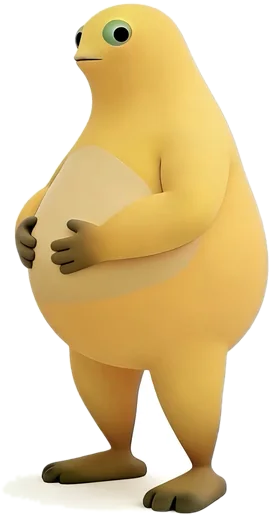
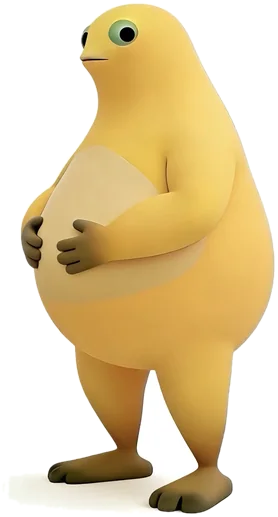
角色改为三段表演：走入/招手/待命，剪辑点藏进重心压缩；重做遮罩去掉脚下灰底

diff --git a/index.html b/index.html
@@ -93,10 +93,13 @@
   /* ── 舞台：lane 裁切走路，印章在 lane 外不被裁 ── */
   .stage{position:relative;height:196px;margin:6px auto 0}
   .lane{position:absolute;inset:0;overflow:hidden}
-  .walker{position:absolute;bottom:0;left:0;width:100%;height:100%;will-change:transform}
-  .walker img{position:absolute;bottom:0;left:0;height:186px;width:auto;opacity:0;
-    will-change:transform,opacity;transform-origin:50% 100%}
-  .shadow{position:absolute;bottom:2px;left:0;width:118px;height:13px;border-radius:50%;
+  /* 三帧共用同一中心线：换帧时身体不会横向跳位，剪辑点才藏得住 */
+  .walker{position:absolute;bottom:0;left:0;width:100%;height:100%;
+    transform-origin:50% 100%;will-change:transform}
+  .walker img{position:absolute;bottom:0;left:50%;height:186px;width:auto;opacity:0;
+    transform:translateX(-50%);transform-origin:50% 100%;will-change:transform,opacity}
+  .shadow{position:absolute;bottom:2px;left:50%;width:118px;height:13px;margin-left:-59px;
+    border-radius:50%;
     background:radial-gradient(50% 50% at 50% 50%, rgba(22,39,63,.26), transparent 70%);
     opacity:0;will-change:transform,opacity}
 
@@ -196,7 +199,7 @@
 
   <div class="meter" id="meter">
     <div class="bar"><div class="fill" id="fill"></div></div>
-    <div class="count"><span id="phase">正在入 学</span><span id="secs">5.6s</span></div>
+    <div class="count"><span id="phase">正在入 学</span><span id="secs">5.9s</span></div>
   </div>
 
   <div class="actions" id="actions">
@@ -226,8 +229,10 @@
   const K = {
     paper:[0, .80], cam:[0, 1.35], ring:[.42, 1.30], badge:[.86, 1.42],
     title:1.06, titleGap:.052, titleDur:.62, dept:1.52, rule:1.58, sheen:1.72,
-    ui:1.90, walk:2.02, walkEnd:3.32, stamp:3.36, settle:3.86, countEnd:5.16,
-    bow:5.16, end:5.60
+    ui:1.90,
+    /* 角色三段表演：走入 → 招手 → 待命 */
+    walk:[2.02, 2.74], cut1:2.80, wave:[2.86, 3.52], cut2:3.58,
+    idle:3.64, stamp:3.86, settle:4.36, countEnd:5.44, bow:5.44, end:5.86
   };
 
   const q = s => document.getElementById(s);
@@ -266,27 +271,55 @@
   });
 
   /* 布局量缓存，绝不在每帧读（offsetWidth 会触发强制同步回流） */
-  let SW=0, SHW=118, FW=frames.map(()=>150);
-  function measure(){
-    SW = walker.parentElement.clientWidth || 320;
-    SHW = shadow.offsetWidth || 118;
-    FW = frames.map(f => f.offsetWidth || 150);
-  }
+  let SW = 0;
+  function measure(){ SW = walker.parentElement.clientWidth || 320; }
   addEventListener("resize", measure);
   addEventListener("load", measure);
   measure();
 
-  const frameWeights = t => {
-    if (t < K.walk) return [1,0,0];
-    if (t > K.bow) return [0,0,1];
-    const c = seg(t, K.walk, K.walkEnd) * 3;
-    const i = Math.min(2, Math.floor(c));
-    const w = [0,0,0];
-    if (i === 2){ w[2] = 1; return w; }                 // 末帧无后继，不做淡化
-    const blend = Math.sin(clamp(c-i)*Math.PI)*.45;
-    w[i] = 1-blend; w[i+1] = blend;
-    return w;
-  };
+  /* 衰减正弦：τ=0 时为 0，先冲出去再收敛回来 —— 保证与上一段无缝衔接 */
+  const damped = (τ, f, z) => Math.exp(-z*τ) * Math.sin(f*τ);
+  /* 短脉冲：用于「压缩」帧，把换图藏进重心下沉里 */
+  const pulse = (t, c, w) => { const d = Math.abs(t-c)/w; return d>=1 ? 0 : (1-d)*(1-d); };
+
+  /* 角色三段表演：走入 → 招手 → 待命。每段只允许一种运动，不叠加 */
+  function actor(t){
+    const xEnd = -SW*.20, xStart = -(SW*.5 + 70);
+    let idx = 0, x = xStart, rot = 0, sy = 1, sx = 1;
+
+    if (t < K.walk[0]){
+      x = xStart;
+    } else if (t < K.cut1){
+      idx = 0;
+      const e = inOut(seg(t, ...K.walk));            // 慢起步：easeOut 会让角色像被弹射出来
+      x = xStart + (xEnd - xStart) * e;
+      rot = -(1 - e) * 3.4 * M;                      // 行进中前倾，停步才立正
+    } else if (t < K.wave[0]){
+      idx = 0;
+      const τ = t - K.walk[1];
+      x = xEnd + damped(τ, 19, 11) * 26 * M;           // 急停过冲回弹
+      const c = pulse(t, K.cut1, .11);
+      sy = 1 - c*.055*M; sx = 1 + c*.050*M;          // 压到最低点时换帧
+    } else if (t < K.cut2){
+      idx = 1;
+      x = xEnd;
+      rot = damped(t - K.wave[0], 7.6, 2.2) * 4.6 * M; // 以脚为轴的两下招呼
+      const c = pulse(t, K.cut2, .11);
+      sy = 1 - c*.050*M; sx = 1 + c*.045*M;
+    } else {
+      idx = 2;
+      x = xEnd;
+      const τ = t - K.idle;
+      sy = 1 + Math.sin(2*Math.PI*τ/2.6)*.013;       // 待机呼吸，消掉「站着不动」的死感
+      sx = 1 - Math.sin(2*Math.PI*τ/2.6)*.006;
+      sy -= pulse(t, K.stamp + .07, .13) * .030 * M; // 章落下时他跟着沉一下，像在看着
+      if (t >= K.bow){
+        const b = seg(t, K.bow, K.bow + .30);
+        rot = Math.sin(b*Math.PI) * 7 * M;           // 鞠躬：去而不返地收在 0
+      }
+    }
+    return { idx, x: reduce ? xEnd : x, rot, sy, sx };
+  }
 
   function burst(){
     if (!M) return;
@@ -359,24 +392,20 @@
     actions.style.opacity = up; actions.style.transform = `translateY(${(1-up)*10*M}px)`;
     q("foot").style.opacity = up * .9;
 
-    /* ⑦ 奶娃走入：起点必须在画外，否则入场前就穿帮露出手臂 */
-    const wp = inOut(seg(t, K.walk, K.walkEnd));
-    const xEnd = SW * .18, xStart = -(FW[0] + 26);
-    const x = reduce ? xEnd : xStart + (xEnd - xStart) * wp;
-    const cyc = (t - K.walk) * 1.15;
-    const hop = M ? Math.abs(Math.sin(cyc*Math.PI)) * (1-wp*.55) * 11 : 0;
-    const sq  = M ? Math.max(0, 1 - Math.abs((cyc % 1) - .92) * 9) * .07 : 0;
-    walker.style.transform = `translate3d(${x}px,${-hop}px,0)`;
-
-    const w = frameWeights(t);
+    /* ⑦ 角色：走入 → 招手 → 待命 → 鞠躬，每段只允许一种运动 */
+    const a = actor(t);
+    walker.style.transform = `translate3d(${a.x.toFixed(2)}px,0,0) rotate(${a.rot.toFixed(3)}deg)`;
     frames.forEach((el,i)=>{
-      el.style.opacity = w[i];
-      el.style.transform = `scale(${1+sq*w[i]}, ${1-sq*w[i]})`;
+      const on = i === a.idx && t >= K.walk[0];
+      el.style.opacity = on ? 1 : 0;
+      el.style.transform = on
+        ? `translateX(-50%) scale(${a.sx.toFixed(4)},${a.sy.toFixed(4)})`
+        : "translateX(-50%)";
     });
-    let cur = 0, best = -1;
-    w.forEach((v,i)=>{ if (v > best){ best = v; cur = i; } });
-    shadow.style.opacity = (.10 + wp*.42) * (1 - hop/22);
-    shadow.style.transform = `translate3d(${x + FW[cur]/2 - SHW/2}px,0,0) scale(${1+sq*.6},1)`;
+    const show = softOut(seg(t, K.walk[0], K.walk[0] + .30));
+    /* 素材自带接触阴影，这里只补一层很淡的接地感，避免两重影子 */
+    shadow.style.opacity = (.20 * show).toFixed(3);
+    shadow.style.transform = `translateX(${a.x.toFixed(2)}px) scaleX(${(1 + (1 - a.sy) * 2.6).toFixed(3)})`;
 
     /* ⑧ 盖章：弹簧压入 + 微旋回弹 */
     const st = seg(t, K.stamp, K.stamp+.55);
@@ -390,7 +419,7 @@
     const cp = seg(t, K.settle, K.countEnd);
     fill.style.width = (cp*100).toFixed(2)+"%";
     secs.textContent = Math.max(0, K.end - t).toFixed(1)+"s";
-    phase.textContent = t < K.walk ? "正在入 学"
+    phase.textContent = t < K.walk[0] ? "正在入 学"
       : t < K.stamp ? "护送中"
       : t < K.bow ? "已录取 · 即将出发" : "出发";
   }
